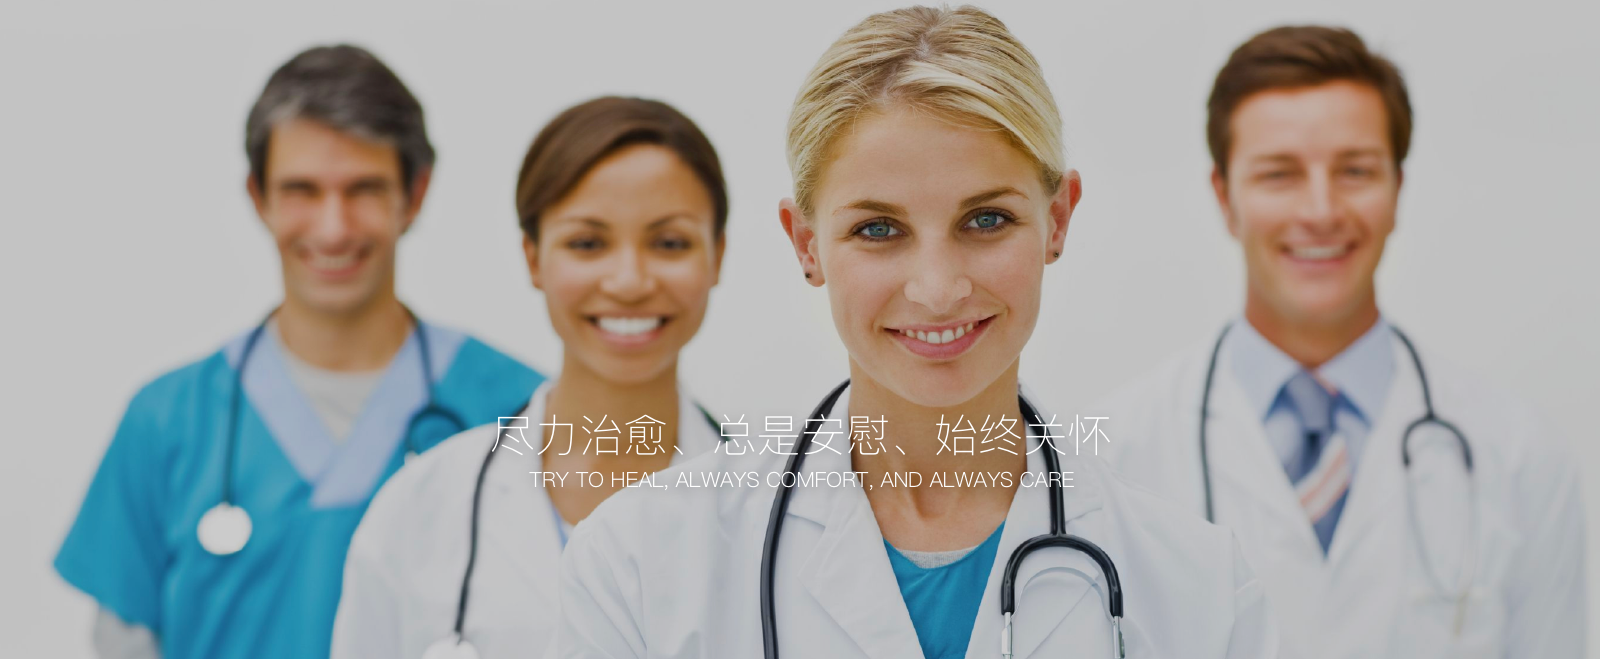
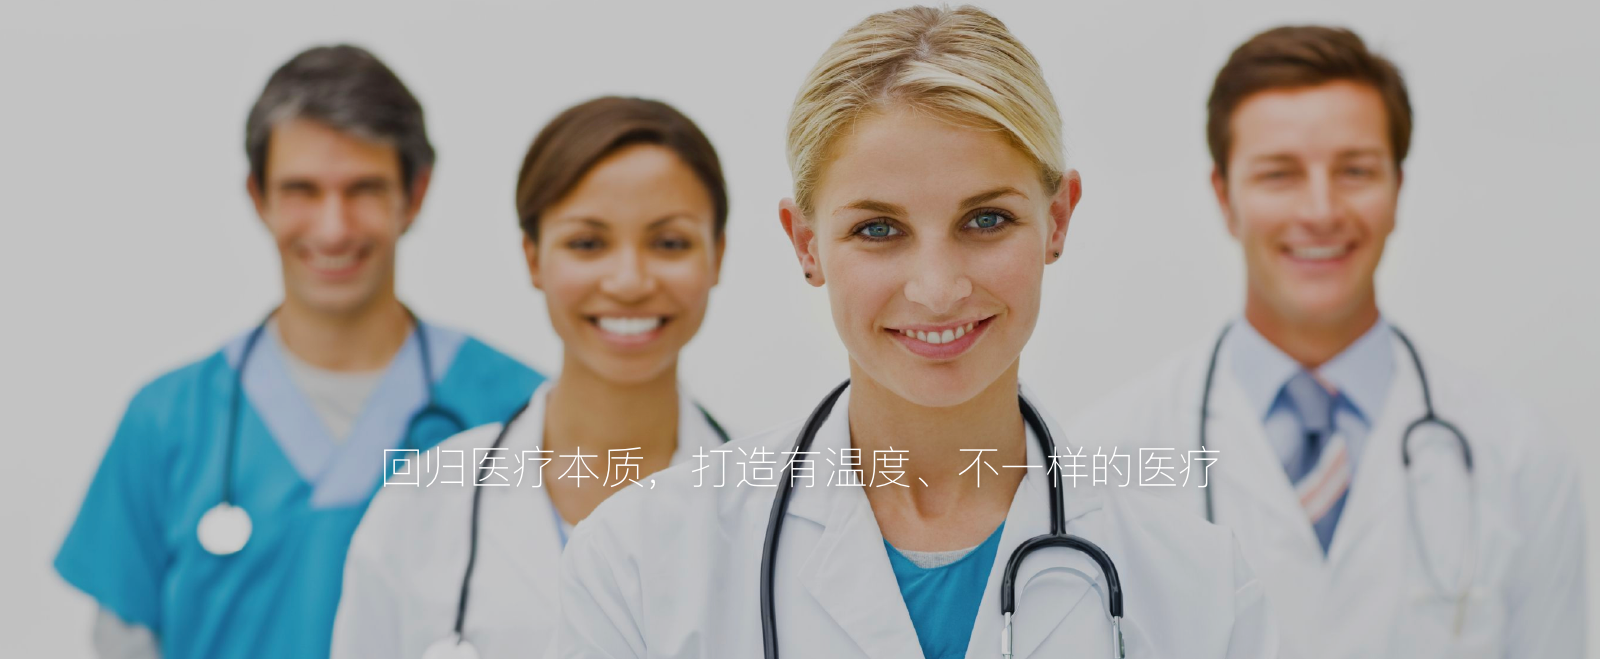
update :宣传图更改和样式修改

Changed region(s): [[0.25, 0.6373, 0.75, 0.7587]]

diff --git a/public/css/screenings/goods_detail.css b/public/css/screenings/goods_detail.css
@@ -133,6 +133,8 @@
         border: 2px solid #ED9E9A; }
         .goods_basic dl dd .type-box.unchoose .box-header {
           display: block; }
+      .goods_basic dl dd .type-box .select-box {
+        margin-left: 10px; }
   .goods_basic dl .submitBox {
     padding-top: 20px; }
     .goods_basic dl .submitBox .submitBtn {

diff --git a/public/css/users/user.css b/public/css/users/user.css
@@ -35,10 +35,14 @@
       .userBox aside .left-nav li {
         padding: 8px 0; }
 
+.footer {
+  margin-top: 0; }
+
 .box-right {
   width: 80%;
   margin-left: 2%;
-  word-break: break-all; }
+  word-break: break-all;
+  padding-bottom: 50px; }
   .box-right .order {
     margin-bottom: 16px;
     border: 1px solid #ddd; }

diff --git a/public/css/global.css b/public/css/global.css
@@ -519,9 +519,9 @@ select {
     text-align: left;
     color: #FFFFFF; }
     .banner dl h3, .banner dl p {
-      padding: 0 0 15px 50px; }
+      padding: 0 0 10px 50px; }
     .banner dl h3 {
-      font-size: 24px;
+      font-size: 20px;
       font-weight: normal;
       padding-top: 20px; }
     .banner dl p {

diff --git a/public/css/trade/trade.css b/public/css/trade/trade.css
@@ -114,7 +114,8 @@ header {
       padding: 10px;
       box-sizing: border-box; }
   .table-div .table-tr {
-    position: relative; }
+    position: relative;
+    border-bottom: 1px solid #DDDDDD; }
     .table-div .table-tr div {
       float: left;
       padding: 20px 10px;

diff --git a/client/sass/global.scss b/client/sass/global.scss
@@ -519,10 +519,10 @@ select {
     text-align: left;
     color: #FFFFFF;
     h3, p {
-      padding: 0 0 15px 50px;
+      padding: 0 0 10px 50px;
     }
     h3 {
-      font-size: 24px;
+      font-size: 20px;
       font-weight: normal;
       padding-top: 20px;
     }

diff --git a/client/sass/treat/treat.scss b/client/sass/treat/treat.scss
@@ -35,7 +35,7 @@
 }
 
 .vertical {
-  background-position: -209px -26px;position: relative;top:3px;border-radius: 8px;overflow: hidden;margin-right: 10px;width: 5px;
+  background-position: -209px -26px;margin-right: 10px;width: 5px;
 }
 
 .title {

diff --git a/client/sass/users/user.scss b/client/sass/users/user.scss
@@ -30,10 +30,15 @@
 
 }
 
+.footer{
+  margin-top:0;
+}
+
 .box-right {
   width: 80%;
   margin-left: 2%;
   word-break: break-all;
+  padding-bottom:50px;
   .order {
     margin-bottom: 16px;
     border: 1px solid #ddd;

diff --git a/client/sass/trade/trade.scss b/client/sass/trade/trade.scss
@@ -134,7 +134,7 @@ header {
   }
   .table-tr {
     position: relative;
-    //border-bottom: 1px solid #DDDDDD;
+    border-bottom: 1px solid #DDDDDD;
     div {
       float: left;
       padding: 20px 10px;

diff --git a/public/css/treat/treat.css b/public/css/treat/treat.css
@@ -39,10 +39,6 @@
 
 .vertical {
   background-position: -209px -26px;
-  position: relative;
-  top: 3px;
-  border-radius: 8px;
-  overflow: hidden;
   margin-right: 10px;
   width: 5px; }
 

diff --git a/client/sass/screenings/goods_detail.scss b/client/sass/screenings/goods_detail.scss
@@ -102,6 +102,7 @@
             display:block;
           }
         }
+        .select-box{margin-left:10px;}
       }
     }
     .submitBox{
